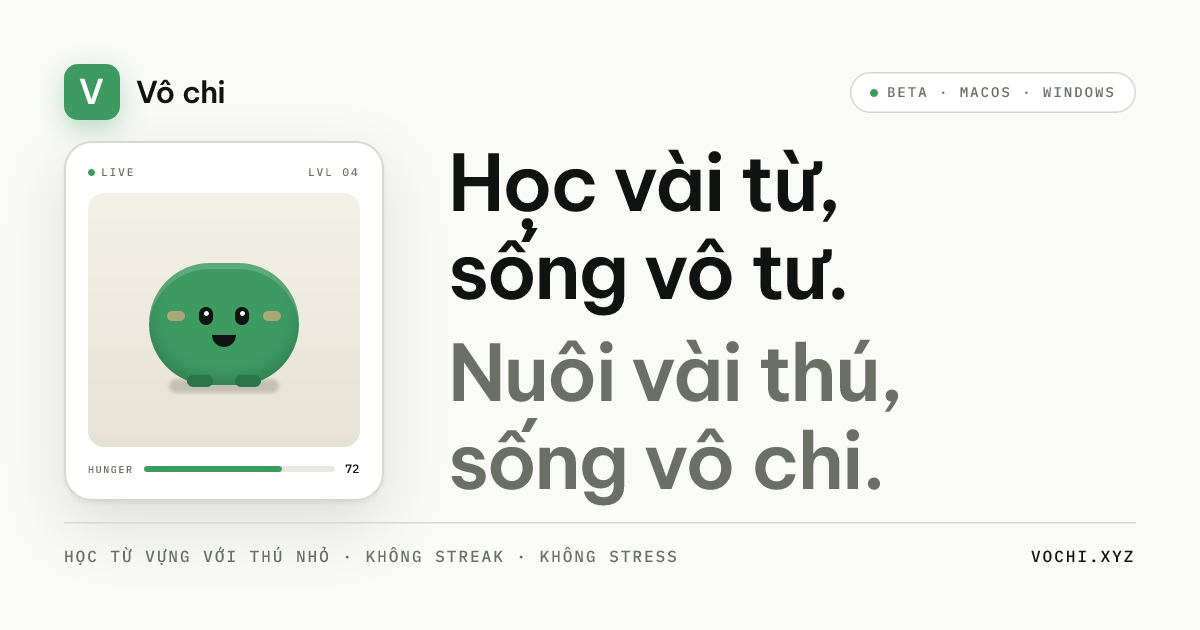
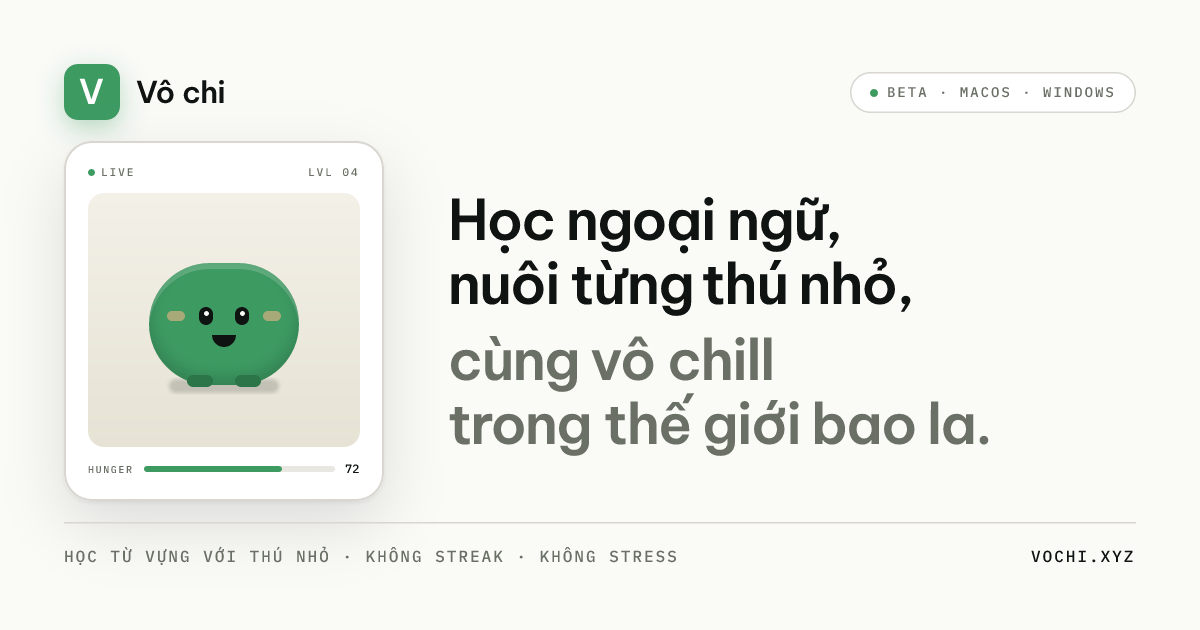
brand: rework slogan around the 'vô chill' couplet
New slogan couplet, in Hero + Footer CTA + meta titles + OG card:
  Học ngoại ngữ, nuôi từng thú nhỏ,
  cùng vô chill trong thế giới mới bao la.

EN parallel:
  Learn languages, raise tiny creatures,
  drift carefree through a vast new world.

- Hero titles updated (VI + EN)
- Footer CTA: 'Học ngoại ngữ, nuôi thú nhỏ, vô chill.'
- layout.tsx metadata + OG meta titles + descriptions
- scripts/gen-og.tsx: couplet typography rebalanced to 56px /
  lineHeight 1.08 / letterSpacing -1.8 to fit the longer lines
- public/og.png regenerated with new couplet (79KB)

Changed region(s): [[0.37, 0.5127, 0.8325, 0.8143], [0.37, 0.2413, 0.7708, 0.5127]]

diff --git a/app/layout.tsx b/app/layout.tsx
@@ -27,11 +27,11 @@ const SITE_URL = "https://vochi.xyz";
 export const metadata: Metadata = {
   metadataBase: new URL(SITE_URL),
   title: {
-    default: "Vô chi · Học từ vựng tiếng Anh cùng thú nhỏ vô tư",
+    default: "Vô chi · Học ngoại ngữ, nuôi từng thú nhỏ, cùng vô chill",
     template: "%s · Vô chi",
   },
   description:
-    "Pet ảo sống trên màn hình bạn, vừa làm việc vừa nhâm nhi từ vựng tiếng Anh. Không streak, không stress. Phương pháp Vô chi cho macOS và Windows. Tải miễn phí.",
+    "Học ngoại ngữ nuôi từng thú nhỏ, cùng vô chill trong thế giới mới bao la. Pet ảo sống trên màn hình macOS và Windows. Tải miễn phí.",
   applicationName: "Vô chi",
   authors: [{ name: "himitsuko" }],
   creator: "himitsuko",
@@ -67,9 +67,9 @@ export const metadata: Metadata = {
     type: "website",
     url: SITE_URL,
     siteName: "Vô chi",
-    title: "Vô chi · Học từ vựng cùng thú nhỏ vô tư",
+    title: "Vô chi · Học ngoại ngữ, nuôi từng thú nhỏ",
     description:
-      "Pet ảo sống trên màn hình macOS và Windows. Nhâm nhi từ vựng tiếng Anh trong kẽ rảnh, không streak, không stress.",
+      "Học ngoại ngữ nuôi từng thú nhỏ, cùng vô chill trong thế giới mới bao la. Pet ảo cho macOS và Windows.",
     locale: "vi_VN",
     alternateLocale: ["en_US"],
     images: [
@@ -83,9 +83,9 @@ export const metadata: Metadata = {
   },
   twitter: {
     card: "summary_large_image",
-    title: "Vô chi · Học từ vựng cùng thú nhỏ vô tư",
+    title: "Vô chi · Học ngoại ngữ, nuôi từng thú nhỏ",
     description:
-      "Pet ảo sống trên màn hình. Không streak, không stress. Tải miễn phí cho macOS và Windows.",
+      "Học ngoại ngữ nuôi từng thú nhỏ, cùng vô chill trong thế giới mới bao la. Tải miễn phí cho macOS và Windows.",
     creator: "@himitsuko",
     images: ["/og.png"],
   },

diff --git a/scripts/gen-og.tsx b/scripts/gen-og.tsx
@@ -402,20 +402,20 @@ async function build() {
             style={{
               display: "flex",
               flexDirection: "column",
-              gap: 6,
-              fontSize: 78,
-              lineHeight: 1.05,
-              letterSpacing: -2.4,
+              gap: 4,
+              fontSize: 56,
+              lineHeight: 1.08,
+              letterSpacing: -1.8,
               flex: 1,
             }}
           >
-            <div style={{ fontWeight: 600 }}>Học vài từ,</div>
-            <div style={{ fontWeight: 600 }}>sống vô tư.</div>
-            <div style={{ fontWeight: 600, color: "#6b7066", marginTop: 14 }}>
-              Nuôi vài thú,
+            <div style={{ fontWeight: 600 }}>Học ngoại ngữ,</div>
+            <div style={{ fontWeight: 600 }}>nuôi từng thú nhỏ,</div>
+            <div style={{ fontWeight: 600, color: "#6b7066", marginTop: 12 }}>
+              cùng vô chill
             </div>
             <div style={{ fontWeight: 600, color: "#6b7066" }}>
-              sống vô chi.
+              trong thế giới bao la.
             </div>
           </div>
         </div>

diff --git a/components/Hero.tsx b/components/Hero.tsx
@@ -8,8 +8,8 @@ import type { Lang } from "./Nav";
 const HERO_COPY = {
   vi: {
     eyebrow: "Beta · macOS + Windows",
-    titleA: "Học vài từ, sống vô tư.",
-    titleB: "Nuôi vài thú, sống vô chi.",
+    titleA: "Học ngoại ngữ, nuôi từng thú nhỏ,",
+    titleB: "cùng vô chill trong thế giới mới bao la.",
     sub: "Những điều lớn lao được nuôi bằng những điều nhỏ bé. Hãy để những thú cưng nhỏ bé lớn lên cùng năng lực ngoại ngữ của bạn.",
     ctaPrimary: "Nuôi thú nhỏ ngay",
     ctaSecondary: "Xem cách hoạt động",
@@ -17,8 +17,8 @@ const HERO_COPY = {
   },
   en: {
     eyebrow: "Beta · macOS + Windows",
-    titleA: "Few words. Fewer worries.",
-    titleB: "One small, carefree creature.",
+    titleA: "Learn languages, raise tiny creatures,",
+    titleB: "drift carefree through a vast new world.",
     sub: "Great things are grown from small ones. Let a tiny creature grow alongside your fluency, one word at a time.",
     ctaPrimary: "Adopt one now",
     ctaSecondary: "See how it works",

diff --git a/components/Footer.tsx b/components/Footer.tsx
@@ -6,7 +6,7 @@ import type { Lang } from "./Nav";
 
 const COPY = {
   vi: {
-    cta: "Nuôi một thú nhỏ vô tư.",
+    cta: "Học ngoại ngữ, nuôi thú nhỏ, vô chill.",
     sub: "macOS, Windows. 28MB. Miễn phí.",
     download: "Tải miễn phí",
     pricing: "Xem bảng giá",
@@ -24,7 +24,7 @@ const COPY = {
       "Thú nhỏ ăn từ vựng. Bạn học mà không cảm thấy như đang học. Phát triển tại Hà Nội.",
   },
   en: {
-    cta: "Adopt a carefree creature.",
+    cta: "Learn languages. Raise creatures. Drift carefree.",
     sub: "macOS, Windows. 28MB. Free.",
     download: "Download free",
     pricing: "Pricing",
